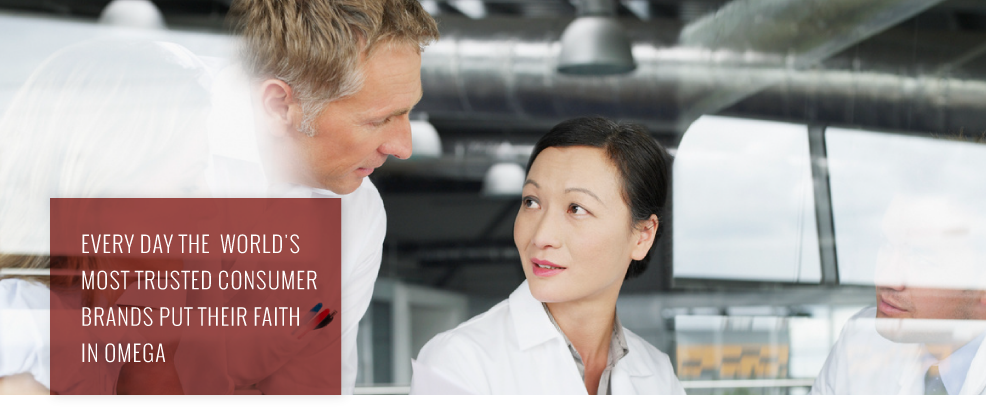
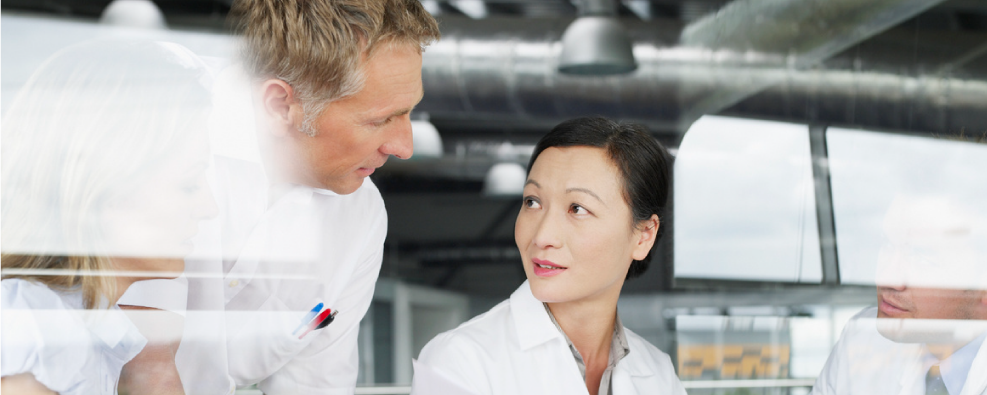
css

diff --git a/wp-content/themes/omega/assets/css/main.css b/wp-content/themes/omega/assets/css/main.css
@@ -7358,14 +7358,16 @@ footer .copyright a {
   font-size: 18px;
   text-transform: uppercase;
 }
-.innerContentContainer .contentContainer p {
+.innerContentContainer .contentContainer p,
+.innerContentContainer .contentContainer li {
   color: #000;
   font-family: "aileronlight";
   font-size: 14px;
   line-height: 180%;
   margin-bottom: 20px;
 }
-.innerContentContainer .contentContainer p a {
+.innerContentContainer .contentContainer p a,
+.innerContentContainer .contentContainer li a {
   color: #000;
 }
 .innerContentContainer .contentContainer .btnFileReport {
@@ -7409,17 +7411,16 @@ footer .copyright a {
     position: relative;
   }
   .innerContentContainer .contentBannerContainer .banner_text {
-    /*background-color:rgba(150, 57, 52, 0.8);
-				margin-bottom:0;
-				padding:30px;
-				position:absolute;
-				max-width:300px;
-				bottom:0;
-				left:50px;*/
-    display: none;
-    /*&.grey_bg{
-					background-color:rgba(113, 113, 116, 0.8);
-				}*/
+    background-color: rgba(150, 57, 52, 0.8);
+    margin-bottom: 0;
+    padding: 30px;
+    position: absolute;
+    max-width: 300px;
+    bottom: 0;
+    left: 50px;
+  }
+  .innerContentContainer .contentBannerContainer .banner_text.grey_bg {
+    background-color: rgba(113, 113, 116, 0.8);
   }
   .innerContentContainer .contentContainer {
     padding: 40px;
@@ -8026,7 +8027,7 @@ footer .copyright a {
   }
   .nav-container .main-menu .navbar-nav > li .sub-menu {
     display: none;
-    margin-left: -22px;
+    margin-left: -12px;
     padding-left: 0;
     position: absolute;
     width: 102px;
@@ -8068,6 +8069,9 @@ footer .copyright a {
   }
   #menu-primary-navigation li a {
     padding: 0;
+  }
+  .nav-container .main-menu .navbar-nav > li .sub-menu {
+    margin-left: -24px;
   }
 }
 @media (min-width: 1200px) {

diff --git a/wp-content/themes/omega/assets/less/layouts/pages/_general-content.less b/wp-content/themes/omega/assets/less/layouts/pages/_general-content.less
@@ -51,7 +51,7 @@
 				text-transform: uppercase;
 			}
 		}
-		p {
+		p,li {
 			color: #000;
 			font-family: "aileronlight";
 			font-size: 14px;
@@ -116,18 +116,17 @@
 		.contentBannerContainer{
 			position:relative;
 			.banner_text{
-				/*background-color:rgba(150, 57, 52, 0.8);
+				background-color:rgba(150, 57, 52, 0.8);
 				margin-bottom:0;
 				padding:30px;
 				position:absolute;
 				max-width:300px;
 				bottom:0;
-				left:50px;*/
-				display: none;
+				left:50px;
 				
-				/*&.grey_bg{
+				&.grey_bg{
 					background-color:rgba(113, 113, 116, 0.8);
-				}*/
+				}
 			}
 		}
 		

diff --git a/wp-content/themes/omega/assets/less/navmenu.less b/wp-content/themes/omega/assets/less/navmenu.less
@@ -204,7 +204,7 @@
 					}
 					.sub-menu{
 						display: none;
-						margin-left: -22px;
+						margin-left: -12px;
 						padding-left:0;
 						position: absolute;
 						width: 102px;
@@ -266,6 +266,10 @@
 				padding:0;
 			}
 		}
+	}
+
+	.nav-container .main-menu .navbar-nav > li .sub-menu{
+		margin-left: -24px;
 	}
 }
 
